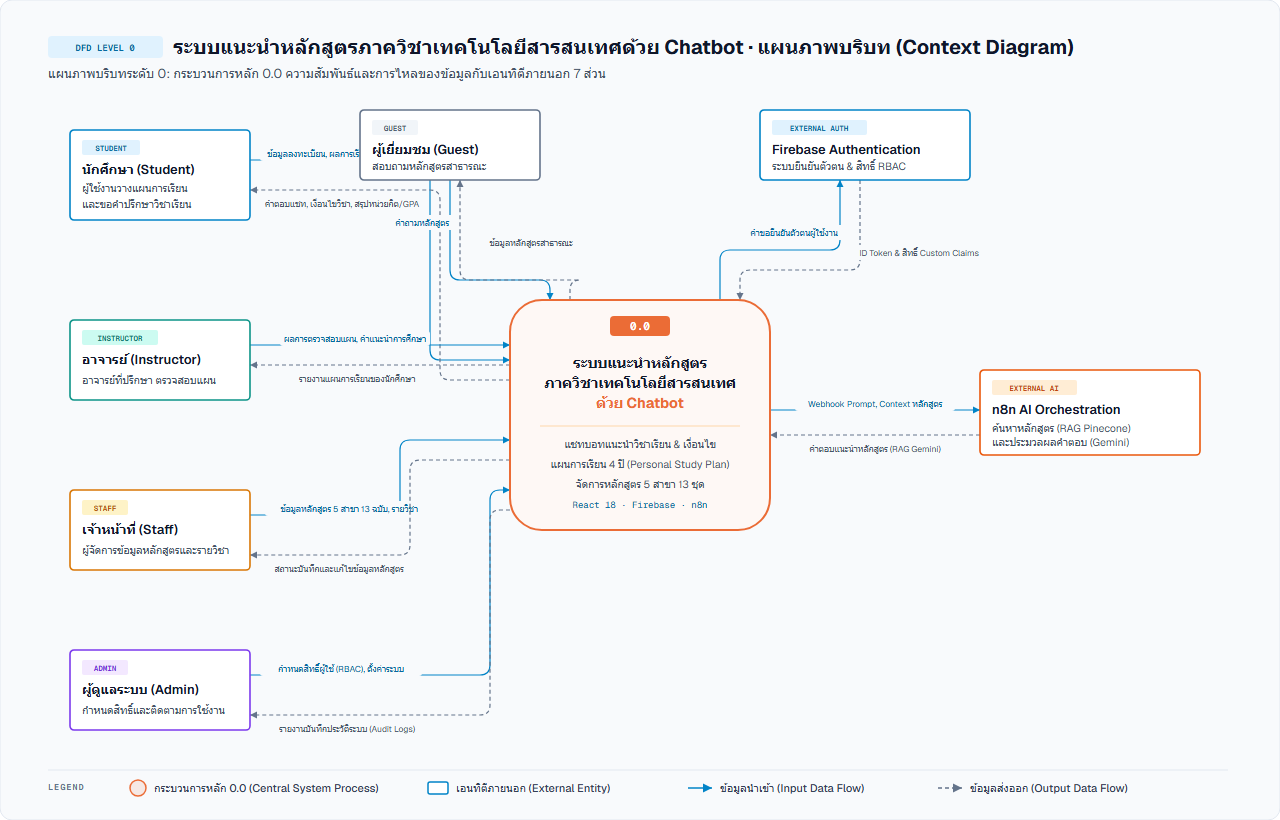
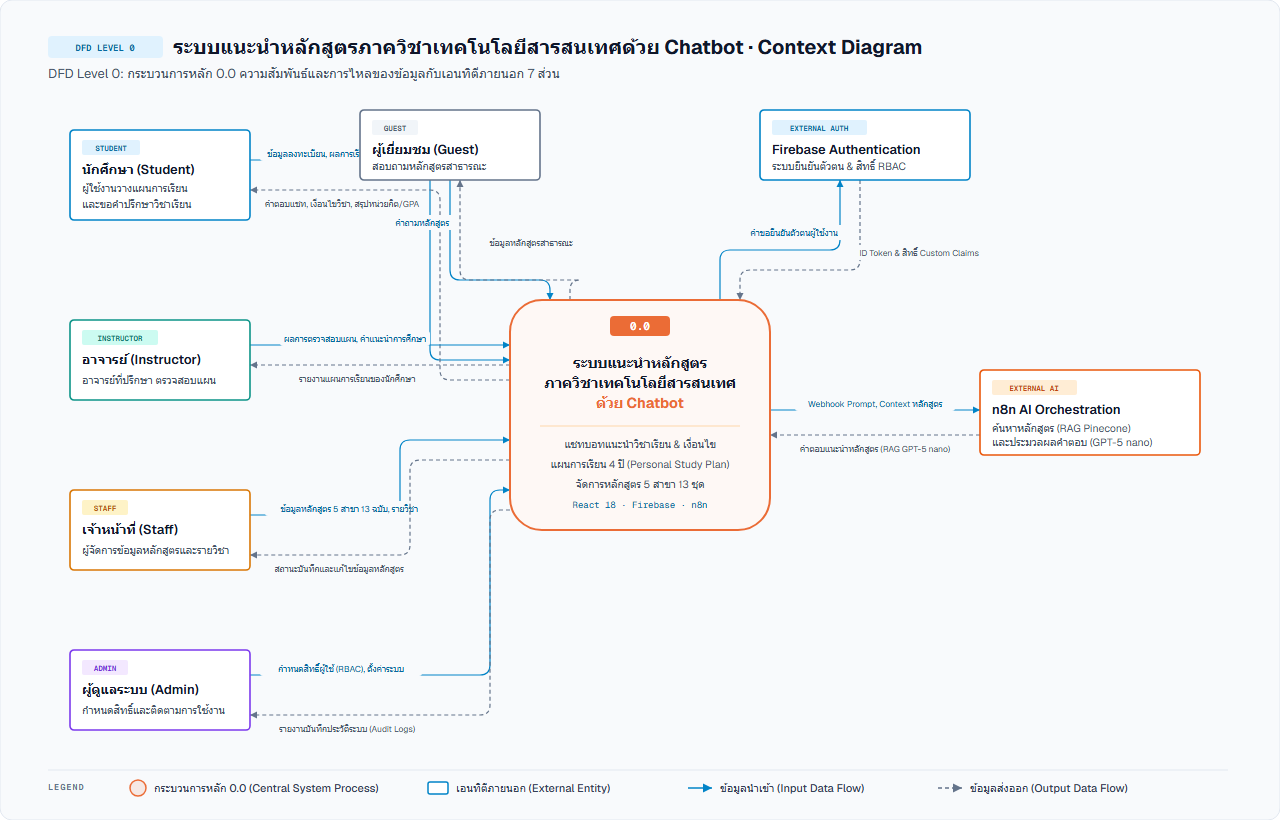
docs: standardize Context Diagram title and update AI model reference to GPT-5 nano

diff --git a/diagrams/diagrams3/context-diagram.html b/diagrams/diagrams3/context-diagram.html
@@ -3,7 +3,7 @@
 <head>
   <meta charset="UTF-8">
   <meta name="viewport" content="width=device-width, initial-scale=1.0">
-  <title>ระบบแนะนำหลักสูตรภาควิชาเทคโนโลยีสารสนเทศด้วย Chatbot · แผนภาพบริบท (Context Diagram)</title>
+  <title>ระบบแนะนำหลักสูตรภาควิชาเทคโนโลยีสารสนเทศด้วย Chatbot · Context Diagram</title>
   <link rel="preconnect" href="https://fonts.googleapis.com">
   <link rel="preconnect" href="https://fonts.gstatic.com" crossorigin>
   <link href="https://fonts.googleapis.com/css2?family=Geist:wght@400;500;600;700&family=Geist+Mono:wght@400;500;600&family=Instrument+Serif:ital@0;1&display=swap" rel="stylesheet">
@@ -179,7 +179,7 @@
     <header>
       <div>
         <p class="eyebrow">Data Flow Diagram · Level 0</p>
-        <h1>ระบบแนะนำหลักสูตรภาควิชาเทคโนโลยีสารสนเทศด้วย Chatbot · แผนภาพบริบท (Context Diagram)</h1>
+        <h1>ระบบแนะนำหลักสูตรภาควิชาเทคโนโลยีสารสนเทศด้วย Chatbot · Context Diagram</h1>
         <p class="subtitle">DFD Level 0: แผนภาพแสดงกระบวนการรวมศูนย์ 0.0 ความสัมพันธ์และการไหลของข้อมูลกับเอนทิตีภายนอก 7 ส่วน</p>
       </div>
       <button class="theme-toggle" id="themeToggle" onclick="toggleTheme()">
@@ -190,7 +190,7 @@
 
     <main>
       <div class="diagram-container">
-        <img id="diagramImage" src="context-diagram-light.svg" alt="ระบบแนะนำหลักสูตรภาควิชาเทคโนโลยีสารสนเทศด้วย Chatbot · แผนภาพบริบท (Context Diagram)">
+        <img id="diagramImage" src="context-diagram-light.svg" alt="ระบบแนะนำหลักสูตรภาควิชาเทคโนโลยีสารสนเทศด้วย Chatbot · Context Diagram">
       </div>
 
       <div class="cards-grid">
@@ -230,7 +230,7 @@
           </div>
           <ul class="card-list">
             <li><strong>Firebase Authentication</strong>: ส่งข้อมูลคำขอยืนยันตัวตน / รับ ID Token และสิทธิ์ Custom Claims</li>
-            <li><strong>n8n AI Orchestration</strong>: ส่ง Webhook Prompt และ Context หลักสูตร / รับคำตอบคำปรึกษาที่ผ่านการประมวลผลจาก Gemini</li>
+            <li><strong>n8n AI Orchestration</strong>: ส่ง Webhook Prompt และ Context หลักสูตร / รับคำตอบคำปรึกษาที่ผ่านการประมวลผลจาก GPT-5 nano</li>
             <li><strong>สอดรับ 100% กับ DFD Level 1</strong>: ทุกกระแสข้อมูลเข้า-ออกตรงกับ Process P1-P5 ในแผนภาพระดับ 1</li>
           </ul>
         </div>

diff --git a/diagrams/diagrams3/system-context-diagram.html b/diagrams/diagrams3/system-context-diagram.html
@@ -237,7 +237,7 @@
           <ul class="card-list">
             <li><strong>Firebase Authentication</strong>: ระบบลงชื่อเข้าใช้ ออก JWT และแนบ Custom Claims ควบคุมบทบาท</li>
             <li><strong>Firebase Realtime Database</strong>: NoSQL Cloud DB ซิงค์สถานะผู้ใช้และผลการประเมินแชทแบบเรียลไทม์</li>
-            <li><strong>n8n AI Orchestration</strong>: รันเวิร์กโฟลว์ RAG ค้นหาข้อมูลหลักสูตรและส่งต่อให้ Google Gemini ประมวลผลคำตอบ</li>
+            <li><strong>n8n AI Orchestration</strong>: รันเวิร์กโฟลว์ RAG ค้นหาข้อมูลหลักสูตรและส่งต่อให้ GPT-5 nano ประมวลผลคำตอบ</li>
           </ul>
         </div>
       </div>

diff --git a/README.md b/README.md
@@ -54,7 +54,7 @@
 | ไดอะแกรม (Diagram) | มุมมองสถาปัตยกรรม | ภาพเวกเตอร์ (SVG) | ภาพความละเอียดสูง (PNG) | พรีวิวสลับธีม (HTML) |
 | --- | --- | --- | --- | --- |
 | **System Context Diagram** | บริบทระบบภาพรวมและสถาปัตยกรรมคลาวด์/AI | [Light](diagrams/diagrams3/system-context-diagram-light.svg) · [Dark](diagrams/diagrams3/system-context-diagram-dark.svg) | [Light](diagrams/diagrams3/system-context-diagram-light.png) · [Dark](diagrams/diagrams3/system-context-diagram-dark.png) | [system-context-diagram.html](diagrams/diagrams3/system-context-diagram.html) |
-| **Context Diagram (DFD L0)** | แผนภาพบริบทกระบวนการ 0.0 และการไหลของข้อมูล | [Light](diagrams/diagrams3/context-diagram-light.svg) · [Dark](diagrams/diagrams3/context-diagram-dark.svg) | [Light](diagrams/diagrams3/context-diagram-light.png) · [Dark](diagrams/diagrams3/context-diagram-dark.png) | [context-diagram.html](diagrams/diagrams3/context-diagram.html) |
+| **Context Diagram (DFD L0)** | ภาพรวมกระบวนการ 0.0 และการไหลของข้อมูล | [Light](diagrams/diagrams3/context-diagram-light.svg) · [Dark](diagrams/diagrams3/context-diagram-dark.svg) | [Light](diagrams/diagrams3/context-diagram-light.png) · [Dark](diagrams/diagrams3/context-diagram-dark.png) | [context-diagram.html](diagrams/diagrams3/context-diagram.html) |
 | **Component Diagram** | สถาปัตยกรรมเชิงชั้น 4 เลเยอร์ | [Light](diagrams/diagrams3/component-diagram-light.svg) · [Dark](diagrams/diagrams3/component-diagram-dark.svg) | [Light](diagrams/diagrams3/component-diagram-light.png) · [Dark](diagrams/diagrams3/component-diagram-dark.png) | [component-diagram.html](diagrams/diagrams3/component-diagram.html) |
 | **Data Flow Diagram (DFD L1)** | การไหลของข้อมูลระดับ 1 (Processes & RTDB) | [Light](diagrams/diagrams3/data-flow-diagram-light.svg) · [Dark](diagrams/diagrams3/data-flow-diagram-dark.svg) | [Light](diagrams/diagrams3/data-flow-diagram-light.png) · [Dark](diagrams/diagrams3/data-flow-diagram-dark.png) | [data-flow-diagram.html](diagrams/diagrams3/data-flow-diagram.html) |
 | **Sequence Diagram** | ลำดับการทำงานของนักศึกษา (Session Lifecycle) | [Light](diagrams/diagrams3/sequence-diagram-light.svg) · [Dark](diagrams/diagrams3/sequence-diagram-dark.svg) | [Light](diagrams/diagrams3/sequence-diagram-light.png) · [Dark](diagrams/diagrams3/sequence-diagram-dark.png) | [sequence-diagram.html](diagrams/diagrams3/sequence-diagram.html) |
@@ -71,12 +71,12 @@
 
 <br />
 
-### 2. แผนภาพบริบท · Context Diagram (DFD Level 0)
+### 2. Context Diagram (DFD Level 0)
 
 <picture>
   <source media="(prefers-color-scheme: dark)" srcset="diagrams/diagrams3/context-diagram-dark.svg">
   <source media="(prefers-color-scheme: light)" srcset="diagrams/diagrams3/context-diagram-light.svg">
-  <img alt="ระบบแนะนำหลักสูตรภาควิชาเทคโนโลยีสารสนเทศด้วย Chatbot · แผนภาพบริบท (Context Diagram)" src="diagrams/diagrams3/context-diagram-light.svg" width="100%">
+  <img alt="ระบบแนะนำหลักสูตรภาควิชาเทคโนโลยีสารสนเทศด้วย Chatbot · Context Diagram" src="diagrams/diagrams3/context-diagram-light.svg" width="100%">
 </picture>
 
 <br />
